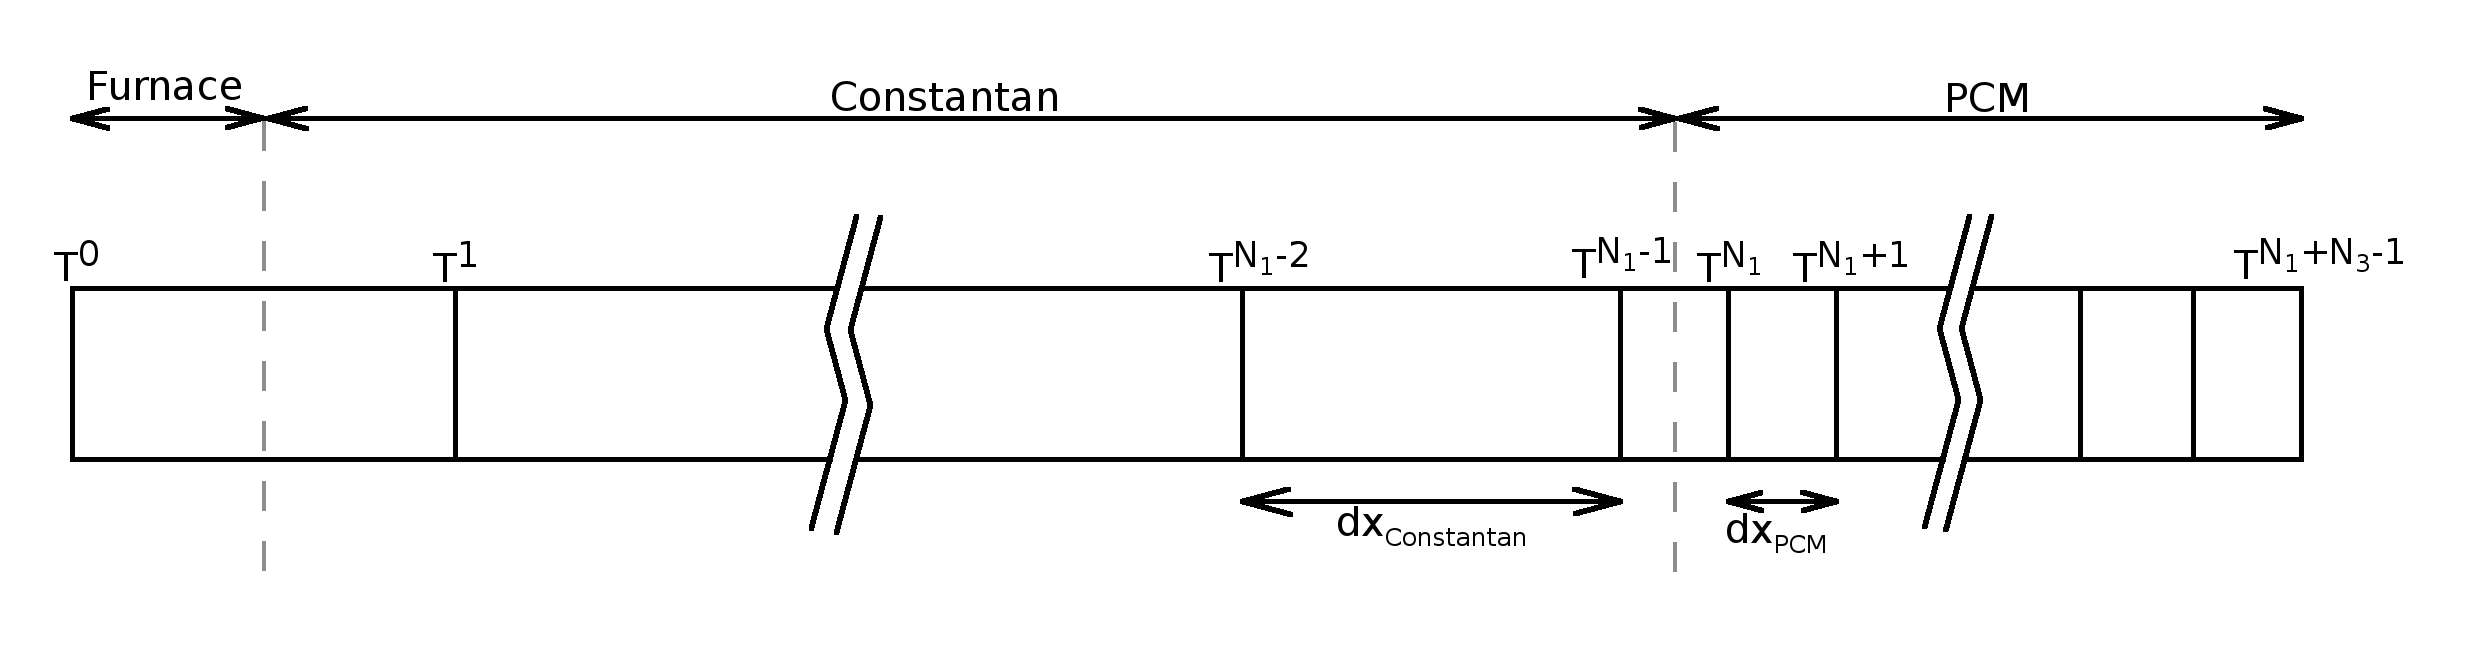
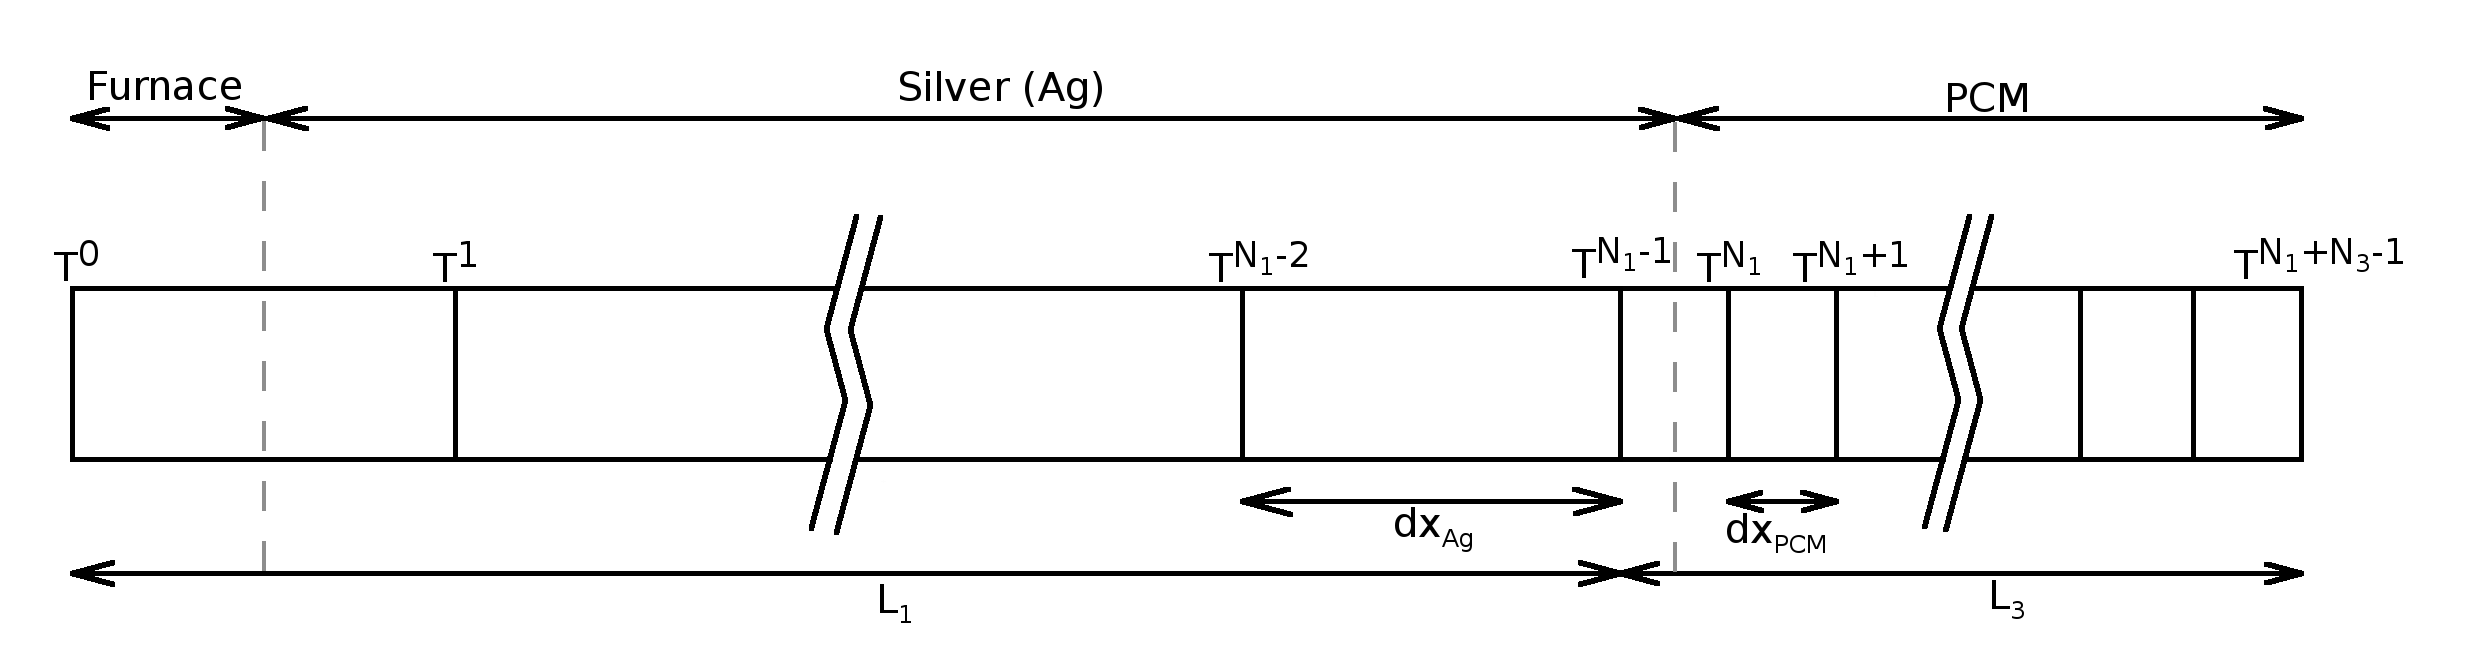
updated discretization grid and dsc_funktionsprinzip images

Changed region(s): [[0.0312, 0.7752, 0.9367, 0.8992], [0.3435, 0.124, 0.4684, 0.186]]

diff --git a/vortrag/vortrag.tex b/vortrag/vortrag.tex
@@ -356,6 +356,7 @@
 	\frametitle{Next potential steps}
 	
 	\begin{itemize}
+		\item Discretization transition from Silver to PCM softer.
 		\item Heat equation with $\rho=\rho(T)$ \\
 		$\rightarrow$ problem with value of absolute enthalpy term
 		\item $L_1$ and $L_3$ as optimization variable. \\
